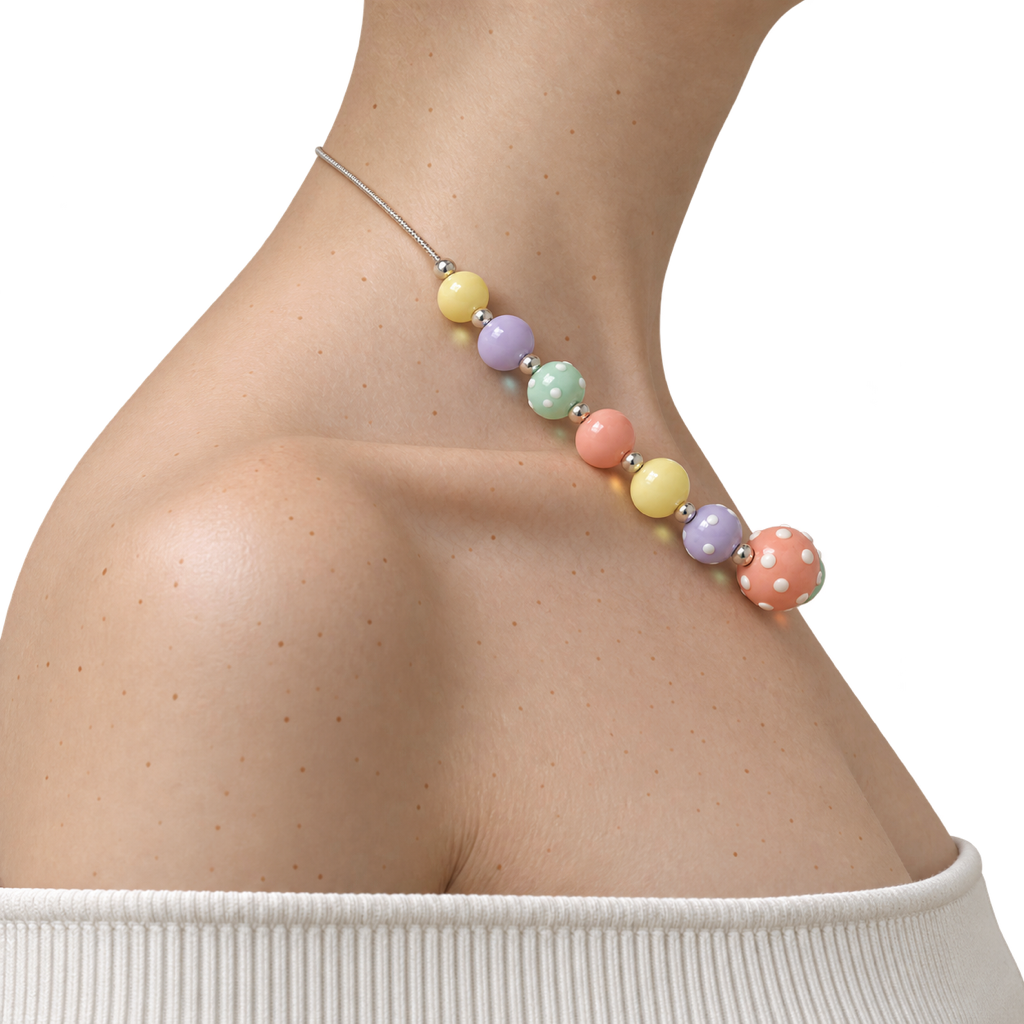
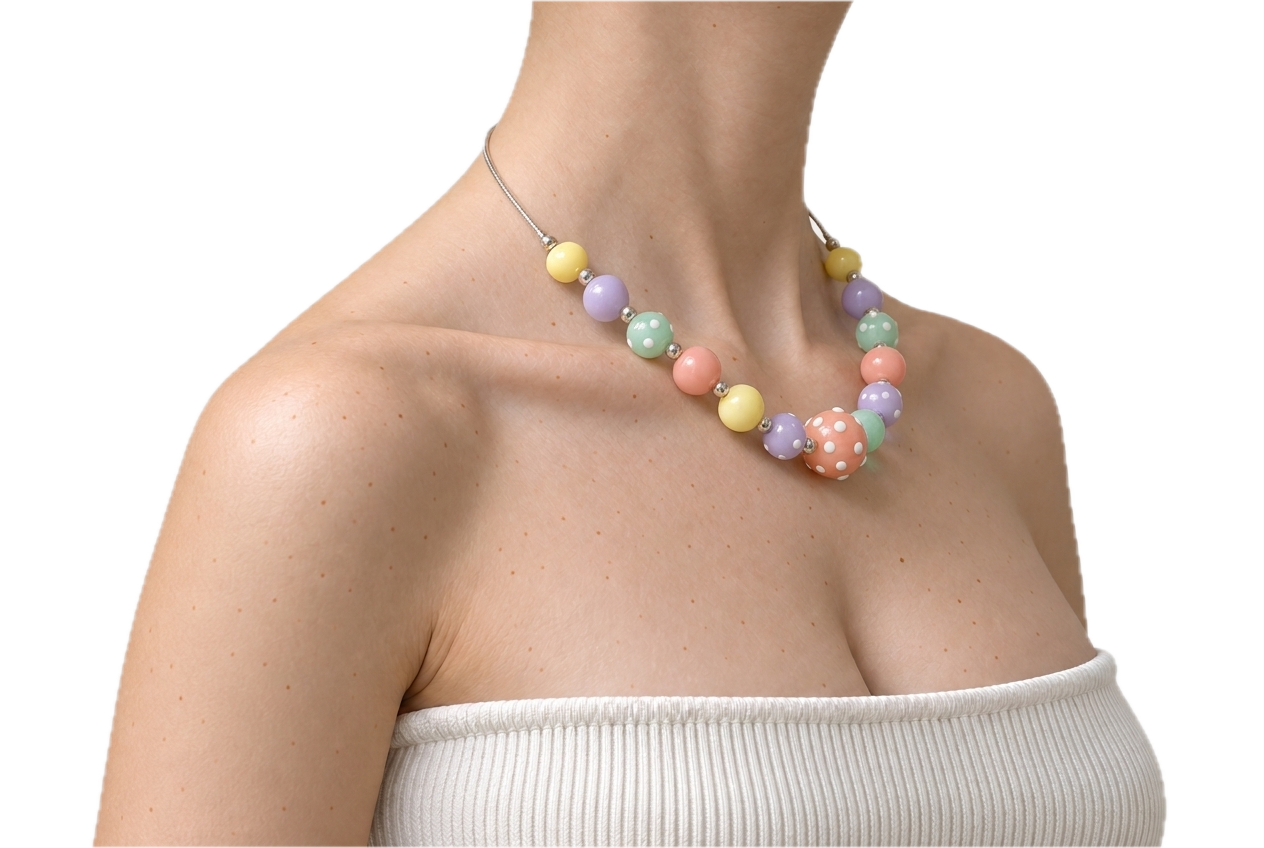
Wide hero photos: Tide Pool and Sunday Morning (Gemini, turned views showing the whole necklace)

diff --git a/index.html b/index.html
@@ -8,7 +8,7 @@
 <link rel="preconnect" href="https://fonts.googleapis.com">
 <link rel="preconnect" href="https://fonts.gstatic.com" crossorigin>
 <link href="https://fonts.googleapis.com/css2?family=Bagel+Fat+One&family=Fredoka:wght@400;500;600&family=Shrikhand&display=swap" rel="stylesheet">
-<link rel="stylesheet" href="styles.css?v=81">
+<link rel="stylesheet" href="styles.css?v=82">
 </head>
 <body>
 <a class="skip" href="#shop">Skip to the necklaces</a>
@@ -222,10 +222,10 @@
   </div>
 </dialog>
 
-<script src="products.js?v=81"></script>
-<script src="standin.js?v=81"></script>
-<script src="splash.js?v=81"></script>
-<script src="shop.js?v=81"></script>
-<script src="play.js?v=81"></script>
+<script src="products.js?v=82"></script>
+<script src="standin.js?v=82"></script>
+<script src="splash.js?v=82"></script>
+<script src="shop.js?v=82"></script>
+<script src="play.js?v=82"></script>
 </body>
 </html>
